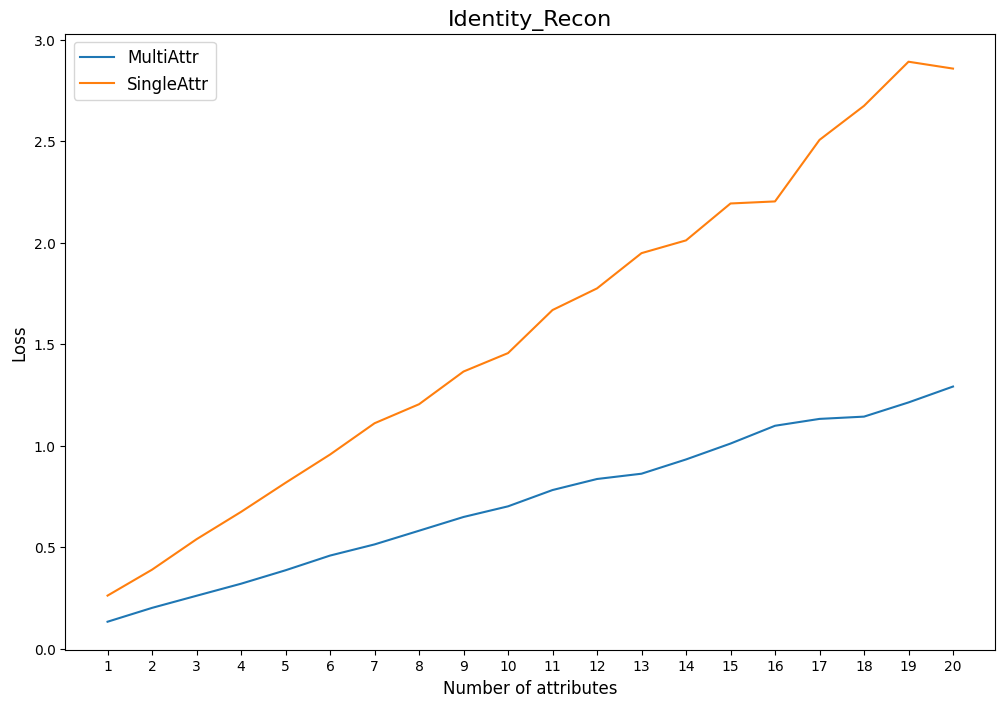
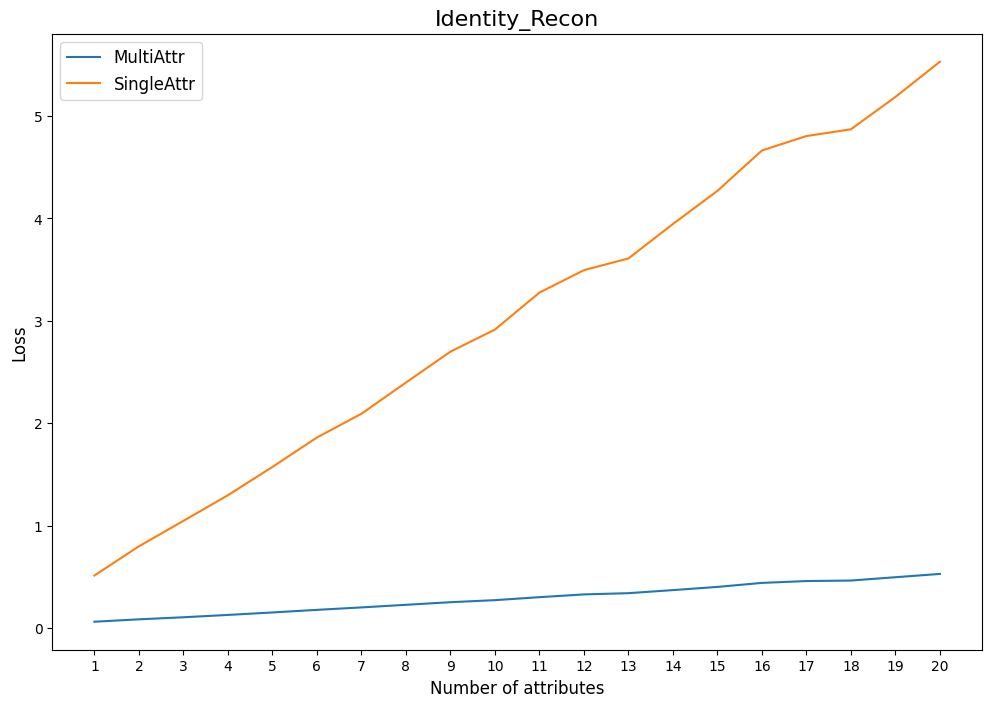
Some evaluation changes

diff --git a/evaluation.py b/evaluation.py
@@ -33,7 +33,7 @@ from constants import ATTR_TO_NUM
 
 
 parser = argparse.ArgumentParser()
-parser.add_argument('--config', type=str, default='new_train', help='Path to the config file.')
+parser.add_argument('--config', type=str, default='triple_train', help='Path to the config file.')
 parser.add_argument('--latent_path', type=str, default='./data/celebahq_dlatents_psp.npy', help='dataset path')
 parser.add_argument('--label_file', type=str, default='./data/celebahq_anno.npy', help='label file path')
 parser.add_argument('--stylegan_model_path', type=str, default='./pixel2style2pixel/pretrained_models/psp_ffhq_encode.pt', help='stylegan model path')
@@ -62,6 +62,8 @@ def compute_sequential_loss(w, w_1, attr_nums, coeff, trainer):
     attr_pb_0 = lbl_0[torch.arange(lbl_0.shape[0]), attr_nums]
 
     target_pb = torch.clamp(attr_pb_0 + coeff, 0, 1).round()
+    coeff_idx = coeff.nonzero(as_tuple=True)[0].tolist()
+    target_pb = target_pb[coeff_idx]
 
     predict_lbl_1 = trainer.Latent_Classifier(w_1.view(w.size(0), -1))
 
@@ -70,8 +72,11 @@ def compute_sequential_loss(w, w_1, attr_nums, coeff, trainer):
     F_coeff = target_pb.size(0)/(target_pb.size(0) - target_pb.sum(0) + 1e-8)
     mask_pb = T_coeff.float() * target_pb + F_coeff.float() * (1-target_pb)
 
-    loss_pb = trainer.BCEloss(predict_lbl_1[torch.arange(predict_lbl_1.shape[0]), attr_nums],
-                                target_pb, reduction='none')*mask_pb
+    pred_pb = predict_lbl_1[torch.arange(predict_lbl_1.shape[0]), attr_nums]
+    loss_pb = trainer.BCEloss(pred_pb[coeff_idx], target_pb, reduction='none')*mask_pb
+
+    # loss_pb = trainer.BCEloss(predict_lbl_1[torch.arange(predict_lbl_1.shape[0]), attr_nums],
+    #                             target_pb, reduction='none')*mask_pb
     loss_pb = loss_pb.mean()
 
     # Latent code recon
@@ -79,7 +84,7 @@ def compute_sequential_loss(w, w_1, attr_nums, coeff, trainer):
 
     # Reg loss
     threshold_val = 1 # if 'corr_threshold' not in self.config else self.config['corr_threshold']
-    mask = torch.tensor(trainer.get_correlation(attr_nums[0], threshold=threshold_val)).type_as(predict_lbl_0)
+    mask = torch.tensor(trainer.get_correlation_multi(attr_nums, threshold=threshold_val, coeffs=coeff)).type_as(predict_lbl_0)
     mask = mask.repeat(predict_lbl_0.size(0), 1)
     loss_reg = trainer.MSEloss(predict_lbl_1*mask, predict_lbl_0*mask)
     
@@ -245,7 +250,7 @@ def eval_single_n(n=1):
         trainer.to(DEVICE)
 
 
-        coeffs = np.load(testdata_dir + "labels/overall.npy")
+        coeffs = np.load(testdata_dir + "labels/all.npy")
 
         losses = torch.zeros((n_samples, 4)).to(DEVICE)
 
@@ -287,22 +292,22 @@ def eval_single_n(n=1):
         return losses.mean(dim=0).detach().cpu().numpy()
 
 
-def all_n_experiment(multi=True, single=True):
+def all_n_experiment(suffix="", multi=True, single=True):
     if multi:
         losses_m = np.zeros((len(attrs), 4))
         for i in range(1,21):
             losses_m[i-1] = eval_multi_n(i)
-        np.save("outputs/evaluation/n_multi_new.npy",losses_m)
+        np.save(f"outputs/evaluation/n_multi{suffix}.npy",losses_m)
 
     if single:
         losses_s = np.zeros((len(attrs), 4))
         for i in range(1,21):
             losses_s[i-1] = eval_single_n(i)
-        np.save("outputs/evaluation/n_single.npy",losses_s)
+        np.save(f"outputs/evaluation/n_single.npy",losses_s)
 
 
-def plot_n_comparison():
-    multi = np.load("outputs/evaluation/n_multi_new.npy").T
+def plot_n_comparison(suffix=""):
+    multi = np.load(f"outputs/evaluation/n_multi{suffix}.npy").T
     single = np.load("outputs/evaluation/n_single.npy").T
 
     loss_titles = ["Total", "Class", "Attr_Reg", "Identity_Recon"]
@@ -319,7 +324,7 @@ def plot_n_comparison():
         plt.savefig(f"out_images/n_eval_{title}.png", bbox_inches="tight")
         plt.clf()
 
-def plot_overall():
+def plot_overall(suffix=""):
     multi = eval_multi(save_img=False)
     single = eval_single(save_img=False)
 
@@ -351,14 +356,14 @@ def plot_overall():
     ax.set_yscale('log')
     ax.legend()
 
-    plt.savefig(f"out_images/eval_overall_new.png", bbox_inches="tight")
+    plt.savefig(f"out_images/eval_overall{suffix}.png", bbox_inches="tight")
     # plt.show()
 
 
 if __name__ == "__main__":
-    all_n_experiment(single=False)
-    plot_n_comparison()
-    # plot_overall()
+    # plot_overall(suffix="_triple")
+    all_n_experiment(single=False, suffix="_triple")
+    plot_n_comparison(suffix="_triple")
 
 
 """

diff --git a/original_trainer.py b/original_trainer.py
@@ -114,6 +114,21 @@ class Trainer(nn.Module):
         corr_vec[corr_vec>=threshold] = 1
         return 1 - corr_vec
 
+    def get_correlation_multi(self, attr_nums, threshold=1, coeffs=None):
+        if self.corr_ma is None:
+            lbls = np.load(self.label_file)
+            self.corr_ma = np.corrcoef(lbls.transpose())
+            self.corr_ma[np.isnan(self.corr_ma)] = 0
+
+        if coeffs is not None:
+            attr_nums = [a[0].item() for a in coeffs.nonzero()]
+
+        corr_vec = np.abs(self.corr_ma[attr_nums, :])
+        corr_vec[corr_vec>=threshold] = 1
+        corr_vec = np.max(corr_vec, axis=0)
+
+        return 1 - corr_vec
+
     def get_coeff(self, x):
         sign_0 = F.relu(x-0.5).sign()
         sign_1 = F.relu(0.5-x).sign()

diff --git a/ui.py b/ui.py
@@ -13,7 +13,7 @@ from trainer import Trainer
 from constants import LABEL_FILE, LATENT_PATH, LABEL_FILE, DEVICE, LOG_DIR, STYLEGAN, CLASSIFIER
 
 # experiment = "limit_scaled"
-experiment = "new_train"
+experiment = "triple_train"
 n_attrs = 20
 
 # Load basic config
